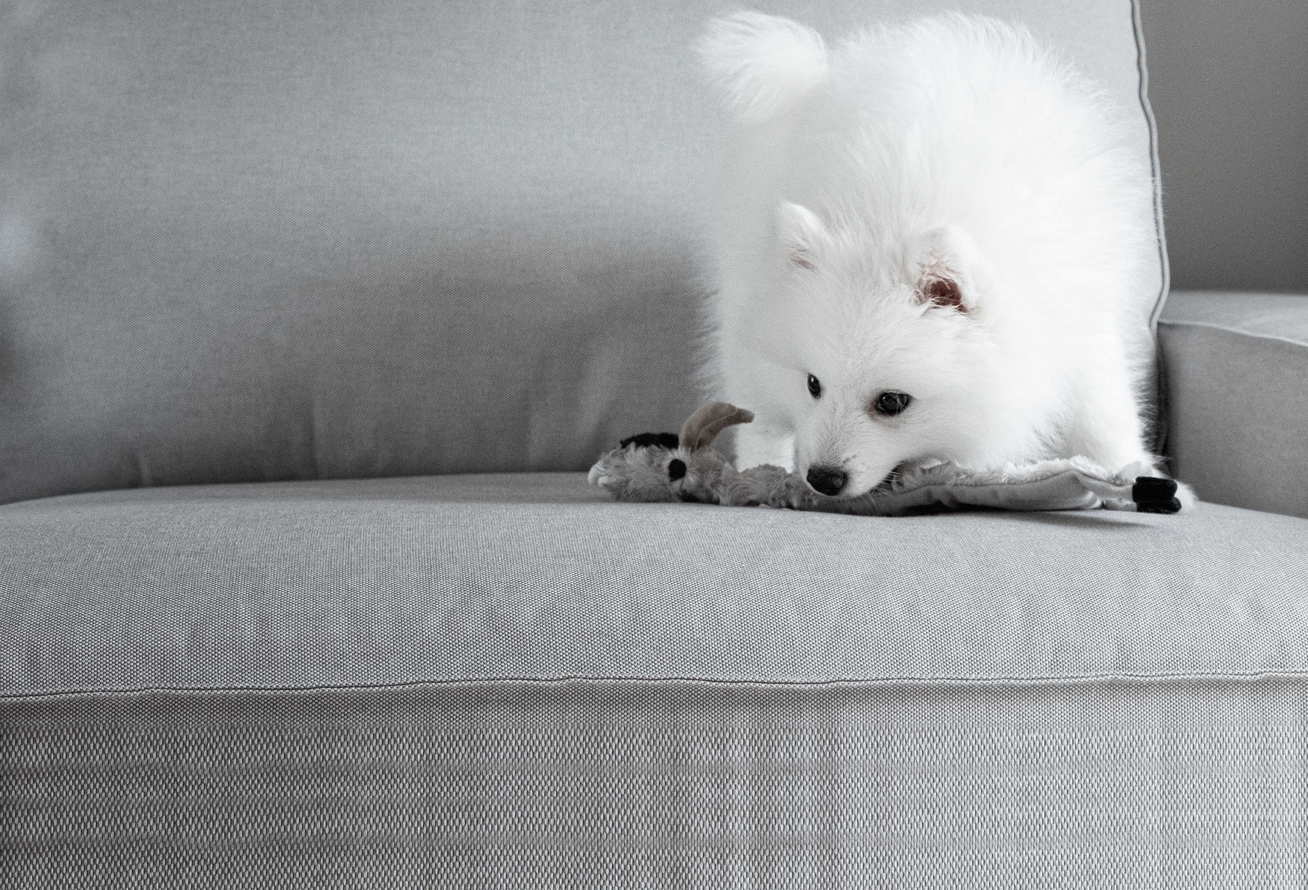
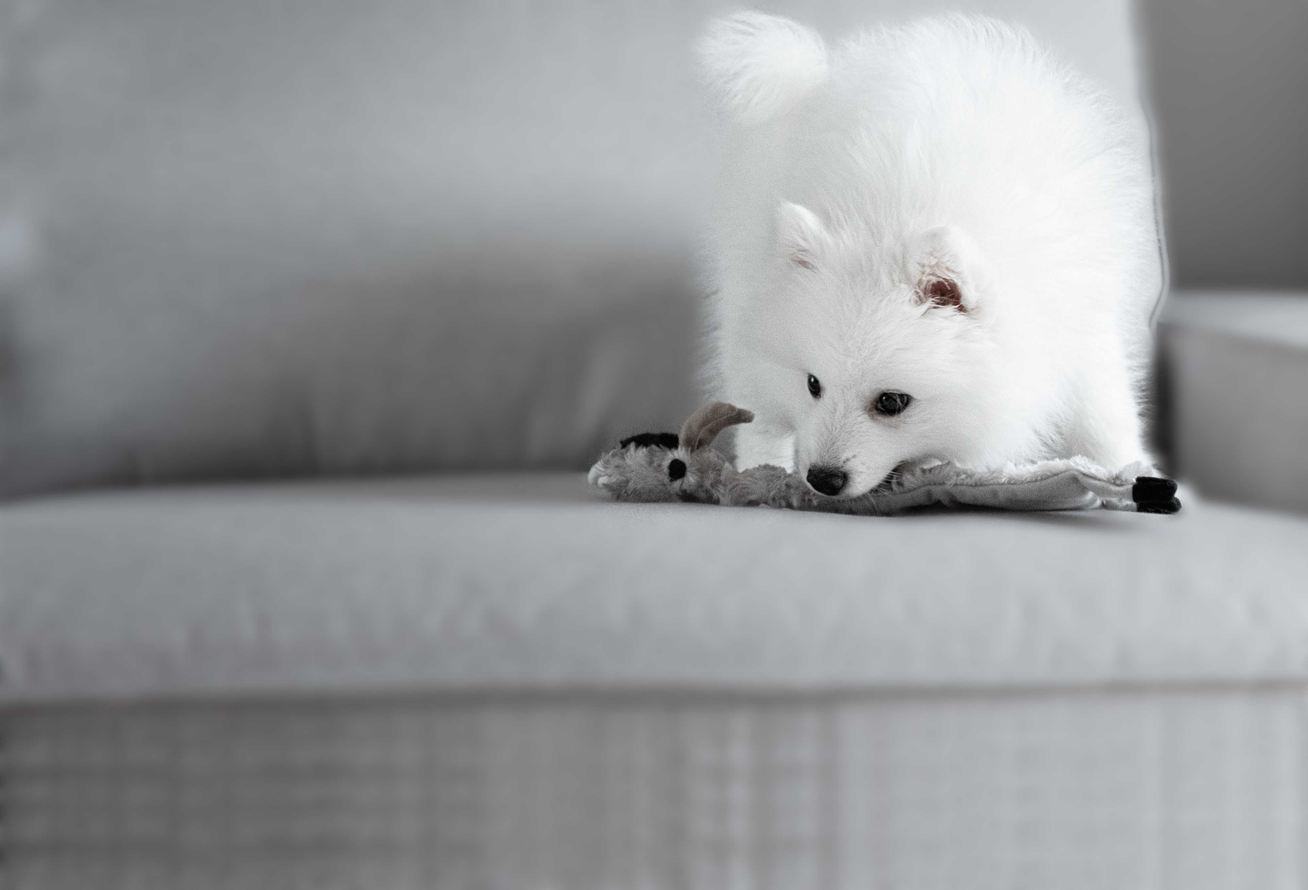
Completed hero image section text in readme, updated our favourites hero image and removed ? after about us on home page

diff --git a/index.html b/index.html
@@ -89,7 +89,7 @@
 			<div class="row">
 				<div class="col-12 col-sm-6" id="scroll-1">
 
-					<h2 class="section-header"><i class="fas fa-bone d-block icon-blue"></i>About Us? <hr></h2>
+					<h2 class="section-header"><i class="fas fa-bone d-block icon-blue"></i>About Us <hr></h2>
 					<p>We are a friendly group of people who all share the common love for dogs. What started as a group of friends 3 years ago, going for a walk with our dogs once 
                     a week turned in to something bigger and better. Every walk we seemed to meet someone new simply by our dogs meeting, which sparked a conversation between us, their owners.
                     Each week we picked up someone new, we met, we walked and we talked, simple right ? As our group got bigger we decided to create a 

diff --git a/README.md b/README.md
@@ -43,22 +43,34 @@ All pages have 3 main components in common, a Navigation bar, hero image and foo
 - **The Navigation Bar**
     - The navigation bar is fully responsive and is aesthetically pleasing on all platforms. 
     
-        - In desktop view (screen width size of 992px and above)the logo is placed at the very left hand side of the navigation bar followed
+        - In desktop view (screen width size of 992px and above) the logo is placed at the very left hand side of the navigation bar followed
         by the links to the other pages. There is a blue rounded button located to the very right hand side
-        of the bar with the format of "Country (Language)" which can be used to switch where you are from which 
+        of the bar with the format of "Country (Language)" which can be used to switch to your country of residence which 
         will update the walking locations and language of the website (if necessary).
 
         - In tablet view (screen width sizes between 992px to 767px) the logo remains over the left hand side
         and the Location button remains over the right hand side of the navigation bar. The links to other pages are 
         centered and remain in the middle of the navigation bar until the screensize hits the 767px breakpoint.
 
-        - In mobile & smaller screen sized devices (screen width sizes under 767px) the navigation bar remains in place
+        - In mobile view & smaller screen sized devices (screen width sizes under 767px) the navigation bar remains in place
         with the logo over the left hand side however the button and the page links disappear and can be found inside of the
         burger menu icons. When pressed, the navigation bar drops down pushing all content beneath down with it while exposing
         the page links and Location button.
 
 - **Hero Images**
-    - A
+    - There is a hero image on each of the 4 pages. All images take up 60% Viewport Height and have the same style, each have a white dog [to maintain the simplistic white theme] 
+    on the right handisde of the screen with a plain background to ensure the dog is in focus. All images have also been given a gaussian
+    blur overlay but the the blur over the dog has been erased to maintain the focus. To the left hand side
+    of each hero image there is a circluar container that houses call to action text along with a blue rounded button
+    which matches the style of all buttons in the project. Each button is assigned to the first section of the page,
+    so when clicked it will initiate the smooth scroll function found in the index.js file until it reaches its target location. 
+    The function is set to complete the scroll in 800 milliseconds / 0.8 seconds.
+
+    - As the screen width size reduces the dog remains over the right handside of the screen while keeping the circluar
+    container to the right, briefly overlapping until the mobile view and small screen sized devices break point is met.
+
+    - In mobile view & smaller screen sized devices (screen width sizes under 767px) both the dog in the image and the 
+    circluar container are centered along with the rest of the page content which is one section per row and is also centered. 
 
 - **The Footer**
     - A
